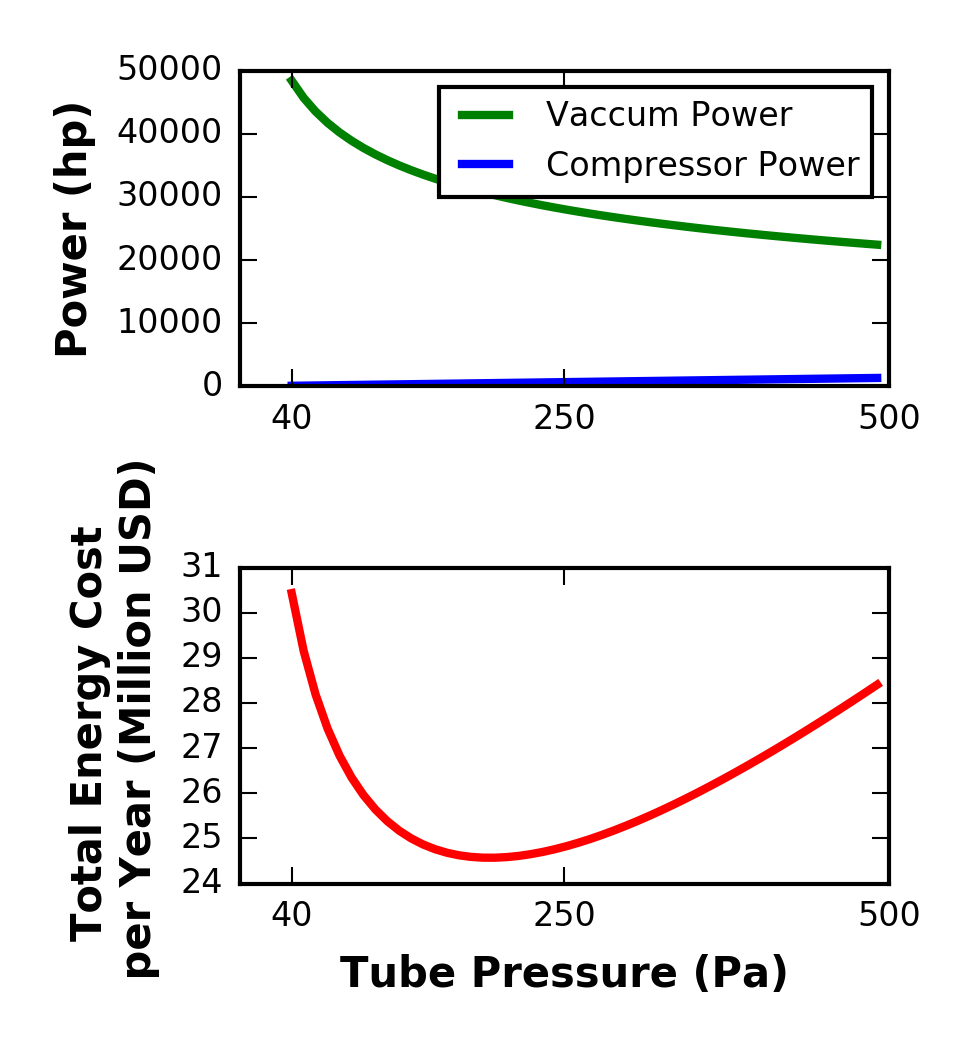
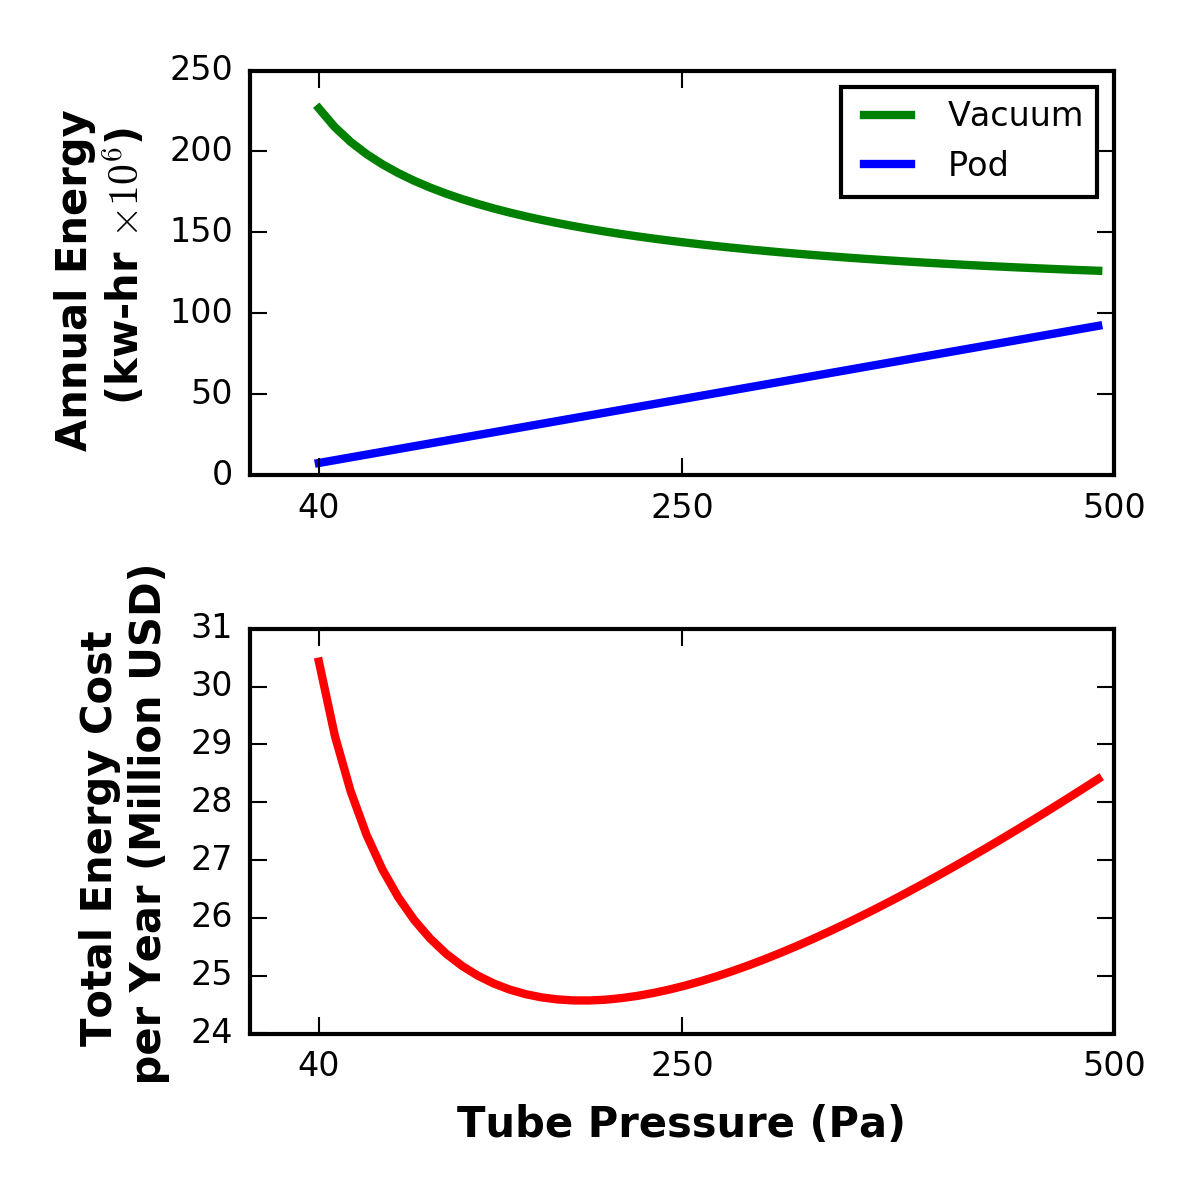
submitted paper

Changed region(s): [[0.0308, 0.0305, 0.9538, 0.4571], [0.0615, 0.4267, 0.9538, 0.9448]]

diff --git a/paper/images/trade_scripts/pressure_zoom_plot.py b/paper/images/trade_scripts/pressure_zoom_plot.py
@@ -10,6 +10,14 @@ power = np.loadtxt('../data_files/pressure_zoom/comp_power.txt', delimiter = '\t
 steady_vac = np.loadtxt('../data_files/pressure_zoom/vac_power.txt', delimiter = '\t')
 total_energy = np.loadtxt('../data_files/pressure_zoom/total_energy.txt', delimiter = '\t')
 
+prop_energy = np.loadtxt('../../../paper/images/data_files/pressure_zoom/prop_energy.txt', delimiter = '\t')
+tube_energy = np.loadtxt('../../../paper/images/data_files/pressure_zoom/tube_energy.txt', delimiter = '\t')
+
+pod_energy = total_energy-tube_energy
+
+comp_scale = 25641305
+power = power*comp_scale
+
 fig = plt.figure(figsize = (3.25,3.5), tight_layout = True)
 ax = plt.axes()
 plt.setp(ax.get_xticklabels(), fontsize=8)
@@ -19,13 +27,35 @@ plt.xlabel('Tube Pressure (Pa)', fontsize = 10, fontweight = 'bold')
 plt.ylabel('Tube Area ($m^2$)', fontsize = 10, fontweight = 'bold')
 ax.set_xticks([40,250,500])
 plt.savefig('../graphs/pressure_trades/pressure_vs_Area_zoom.png', format = 'png', dpi = 300)
-plt.show()
+#plt.show()
 
 fig = plt.figure(figsize = (3.25,3.5), tight_layout = True)
 ax1 = fig.add_subplot(211)
 line1, = ax1.plot(p_tunnel, steady_vac, 'g-', linewidth = 2.0, label = 'Vaccum Power')
 line2, = ax1.plot(p_tunnel, power, 'b-', linewidth = 2.0, label = 'Compressor Power')
 ax1.set_ylabel('Power (hp)', fontsize = 10, fontweight = 'bold')
+plt.legend(handles = [line1, line2], loc = 1, fontsize = 8)
+ax1.set_xticks([40,250,500])
+#ax1.set_yticks([14000, 28000, 36000, 56000])
+ax2 = fig.add_subplot(212)
+ax2.plot(p_tunnel, total_energy/(1.0e6), 'r-', linewidth = 2.0)
+ax2.set_xlabel('Tube Pressure (Pa)', fontsize = 10, fontweight = 'bold')
+ax2.set_ylabel('Total Energy Cost \n per Year (Million USD)', fontsize = 10, fontweight = 'bold')
+ax2.set_xticks([40,250,500])
+#ax2.set_yticks([0,10,20,30])
+plt.setp(ax1.get_xticklabels(), fontsize=8)
+plt.setp(ax1.get_yticklabels(), fontsize=8)
+plt.setp(ax2.get_xticklabels(), fontsize=8)
+plt.setp(ax2.get_yticklabels(), fontsize=8)
+plt.savefig('../graphs/pressure_trades/pressure_vs_power_zoom.png', format = 'png', dpi = 300)
+# plt.show()
+
+fig = plt.figure(figsize = (4.,4.), tight_layout = True)
+ax1 = fig.add_subplot(211)
+line1, = ax1.plot(p_tunnel, tube_energy/.13/1e6, 'g-', linewidth = 2.0, label = 'Vacuum')
+#line2, = ax1.plot(p_tunnel, prop_energy, 'b-', linewidth = 2.0, label = 'Yearly Compressor Energy')
+line2, = ax1.plot(p_tunnel, pod_energy/.13/1e6, 'b-', linewidth = 2.0, label = 'Pod')
+ax1.set_ylabel('Annual Energy \n '+r'(kw-hr $\times 10^6$)', fontsize = 10, fontweight = 'bold')
 plt.legend(handles = [line1, line2], loc = 1, fontsize = 8)
 ax1.set_xticks([40,250,500])
 #ax1.set_yticks([14000, 28000, 36000, 56000])

diff --git a/paper/sections/introduction.tex b/paper/sections/introduction.tex
@@ -41,8 +41,8 @@
     of pressure ahead of the pod. Existing aerospace research for
     electric aircraft propulsion can be leveraged to provide the necessary
     technology for this compressor along with recent technological developments
-    in high-density electrical electronics and power storage. Aerospace modeling
-    techniques also provide better tools for designing propulsions systems
+    in high-density power electronics and power storage. Aerospace modeling
+    techniques also provide better tools for designing propulsion systems
     requiring boundary layer ingestion and management.
 
     Staying at ground-level allows the Hyperloop's electromagnetic propulsion
@@ -62,7 +62,7 @@
     The substantially lower drag enables pulse and glide mission profiles,
     making passive MagLev more viable. This may result in a lighter, more affordable track
     system, avoiding active levitation components spanning the entire tube length.
-    This unique combination of potential levitation and propulsion technologies,
+    This unique combination of potential levitation and propulsion technologies
     differentiate it from previous tube trains and MagLev systems.
     In the same way an airplane is differentiated from an airship or a hydroplane
     is differentiated from a boat, the Hyperloop is a plane that generates lift
@@ -83,7 +83,7 @@
     Hyperloop can be optimized for passenger throughput, door-to-door travel time,
     and energy efficiency for open and level travel corridors spanning highly
     populous cities. The combination of these technologies allows the
-    vehicle to spends more time operating under optimal conditions and avoids
+    vehicle to spend more time operating under optimal conditions and avoids
     releasing carbon emissions into the upper atmosphere.
 
     The design mission is sized for distances between 250-500 nautical miles,

diff --git a/paper/sections/results/pressure_trade.tex b/paper/sections/results/pressure_trade.tex
@@ -47,22 +47,12 @@ at higher pressures, increases in pod length begin to dominate boundary layer
 sizing and the marginal effect on tube area is tempered.
 
 \begin{figure}
-\centering
-\begin{subfigure}{.5\textwidth}
-  \centering
-  \includegraphics{../../images/graphs/pressure_trades/pressure_vs_power.png}
-  \caption{Pressure Sweep, Leakage = 1 $\frac{kg}{s}$}
-  \label{fig:pow_demands_vs_tube_press_big}
-\end{subfigure}%
-\begin{subfigure}{.5\textwidth}
-  \centering
-  \includegraphics{../../images/graphs/pressure_trades/pressure_vs_power_zoom.png}
-  \caption{Pressure Sweep, Leakage = 3 $\frac{kg}{s}$}
-  \label{fig:pow_demands_vs_tube_press_zoom}
-\end{subfigure}
-\caption{Power Demands and Energy Consumption vs. Tube Pressure}
-\label{fig:pow_demands_vs_tube_press}
+    \centering
+    \includegraphics{../../images/graphs/pressure_trades/pressure_vs_power_zoom.png}
+    \caption{Energy Consumption and Cost vs. Tube Pressure}
+    \label{fig:pow_demands_vs_tube_press}
 \end{figure}
+
 \Cref{fig:pow_demands_vs_tube_press} shows how the power and energy consumption
 change with tube pressure. As expected, high tube pressures require lower power
 for a given leakage rate while requiring a higher power output from the onboard
@@ -70,7 +60,7 @@ compressor for a given compressor ratio. Thus total annual energy cost
 increases for very low pressures, due to the vacuum system managing the air
 leakage, and increases for very high pressures,
 due to increased power demand from the compressor.
-The second plot in \cref{fig:pow_demands_vs_tube_press_zoom} shows that this
+The second plot in \cref{fig:pow_demands_vs_tube_press} shows that this
 relationship produces a pressure at which energy cost is minimal. In this case,
 the energy consumption is minimal at about 200 Pa for a leakage of 3 $\frac{kg}{s}$.
 Energy consumption increases

diff --git a/paper/sections/model_overview.tex b/paper/sections/model_overview.tex
@@ -9,13 +9,13 @@ which describes how to interpret the following diagrams for the Pod, Tube, and M
 \centering
 \begin{subfigure}[b]{.4\textwidth}
   \centering
-  \centerline{\includegraphics[width=1.2\textwidth]{../images/tube_and_pod.png}}
+  \centerline{\includegraphics[width=1.2\textwidth,\hspace{-1.2cm}]{../images/tube_and_pod.png}}
   %\caption{Hierarchical tree}
   \label{fig:tree:tubeandpod}
 \end{subfigure}%
 \begin{subfigure}[b]{.6\textwidth}
   \centering
-  \centerline{\includegraphics[width=1.4\textwidth,\vspace{1.2cm}]{../images/xdsm/tube_and_pod.pdf}}
+  \centerline{\includegraphics[width=1.4\textwidth,\hspace{-0.7cm},\vspace{1.2cm}]{../images/xdsm/tube_and_pod.pdf}}
   %\caption{XDSM}
   \label{fig:xdsm:toplevel}
 \end{subfigure}
@@ -33,7 +33,7 @@ which describes how to interpret the following diagrams for the Pod, Tube, and M
 \end{subfigure}%
 \begin{subfigure}[b]{.5\textwidth}
   \centering
-  \centerline{\includegraphics[width=1.4\textwidth,\vspace{0.5cm}]{../images/xdsm/pod.pdf}}
+  \centerline{\includegraphics[width=1.4\textwidth,\vspace{0.3cm}]{../images/xdsm/pod.pdf}}
   %\caption{XDSM}
   \label{fig:xdsm:pod}
 \end{subfigure}
@@ -51,7 +51,7 @@ which describes how to interpret the following diagrams for the Pod, Tube, and M
 \end{subfigure}%
 \begin{subfigure}[b]{.5\textwidth} % align [b]ottoms, 1cm padding on xdsm
   \centering
-  \centerline{\includegraphics[width=1.3\textwidth,\vspace{0.8cm}]{../images/xdsm/tube.pdf}}
+  \centerline{\includegraphics[width=1.3\textwidth,\hspace{0.75cm},\vspace{0.8cm}]{../images/xdsm/tube.pdf}}
   %\caption{XDSM}
   \label{fig:xdsm:tube}
 \end{subfigure}

diff --git a/paper/images/trade_scripts/pressure_zoom_writer.py b/paper/images/trade_scripts/pressure_zoom_writer.py
@@ -121,12 +121,14 @@ if __name__ == '__main__':
 	steady_vac = np.zeros((1,len(p_tunnel)))
 	total_energy = np.zeros((1, len(p_tunnel)))
 	thrust = np.zeros((1, len(p_tunnel)))
+	prop_energy = np.zeros((1, len(p_tunnel)))
+	tube_energy = np.zeros((1, len(p_tunnel)))
 
 	for i in range(len(p_tunnel)):
 
 		prob['des_vars.tube_pressure'] = p_tunnel[i]
-		print(prob['des_vars.W'])
-		quit()
+		#print(prob['des_vars.W'])
+
 		prob['des_vars.W'] = 3
 
 		prob.run()
@@ -138,10 +140,13 @@ if __name__ == '__main__':
 		power[0,i] = -1.0*prob['TubeAndPod.pod.cycle.comp.power']
 		steady_vac[0,i] = -1.0*prob['TubeAndPod.tube.comp.power']
 		total_energy[0,i] = prob['TubeAndPod.cost.total_energy_cost']
+		prop_energy[0,i] = prob['TubeAndPod.cost.prop_energy_cost']
+		tube_energy[0,i] = prob['TubeAndPod.cost.tube_energy_cost']
 
 		print(i)
 
-
+	np.savetxt('../../../paper/images/data_files/pressure_zoom/prop_energy.txt', prop_energy, fmt = '%f', delimiter = '\t', newline = '\r\n')
+	np.savetxt('../../../paper/images/data_files/pressure_zoom/tube_energy.txt', tube_energy, fmt = '%f', delimiter = '\t', newline = '\r\n')
 	np.savetxt('../../../paper/images/data_files/pressure_zoom/p_tunnel.txt', p_tunnel, fmt = '%f', delimiter = '\t', newline = '\r\n')
 	np.savetxt('../../../paper/images/data_files/pressure_zoom/Re.txt', Re, fmt = '%f', delimiter = '\t', newline = '\r\n')
 	np.savetxt('../../../paper/images/data_files/pressure_zoom/A_tube.txt', A_tube, fmt = '%f', delimiter = '\t', newline = '\r\n')

diff --git a/paper/sections/model_overview/pod_level_comp_descriptions.tex b/paper/sections/model_overview/pod_level_comp_descriptions.tex
@@ -2,7 +2,7 @@
      The design of the tube is driven by the configuration of the pod.
      Consequently, the system model is constructed such that the pod design is analyzed first.
      The Pod group contains all subsystems onboard the passenger pod.
-     The Pod module takes in design variables and feeds them into the Drag, Cycle,
+     The module takes in design variables and feeds them into the Drag, Cycle,
      Drivetrain, Geometry, Mass, and Levitation subsystems.
 
   \subsubsection{Drag}
@@ -154,7 +154,7 @@
 	track. A passive system is advantageous because it requires
 	zero power input for levitation to occur at a given speed.
   Magnetic drag is still present, however pod speed is replenished during each
-  boost phase shown in the mission discussion.
+  boost phase as depicted in the mission discussion.
   Track cost accounting is not included in the model, but this configuration
   was chosen to reduce overall track requirements to essentially metal strips
   configured to maximize conductivity and minimize eddy current generation.

diff --git a/paper/heading.tex b/paper/heading.tex
@@ -45,7 +45,7 @@
 \author{
   Kenneth Decker,\thanks{Aerospace Engineer, Georgia Insitute of Technology, Aerospace Systems Design Lab}
   \and Jeffrey Chin,\thanks{Aerospace Engineer, Propulsion Systems Analysis Branch, Mail Stop 5-11, AIAA Member}
-  \and Andi Peng,\thanks{Computer Scientist, Yale University}
+  \and Andi Peng,\thanks{Computer Scientist, Global Affairs, Yale University}
   \and Colin Summers,\thanks{Chemical Engineer, Computer Engineer, University of Washington-Seattle}
   \and Golda Nguyen,\thanks{Mechanical Engineer, Georgia Institute of Technology}
   \and Andrew Oberlander,\thanks{Mechanical Engineer, Brown University}

diff --git a/paper/sections/model_overview/top_level_comp_descriptions.tex b/paper/sections/model_overview/top_level_comp_descriptions.tex
@@ -58,8 +58,8 @@
 
 \subsubsection{Cost}
 	The cost module estimates the cost of energy, materials, pods, and
-	construction capital. The cost of construction is highly subjective and is
-	difficult to get an accurate estimation within less than an order of
+	construction capital. The cost of construction is highly subjective and it
+	is difficult to get an accurate estimation within less than an order of
 	magnitude of uncertainty. However, the cost of materials and energy
 	consumption can be estimated with significantly greater certainty.
 	Thus, in this analysis, the cost estimations of materials and energy are of greater interest.

diff --git a/paper/sections/results/mach_number_trade.tex b/paper/sections/results/mach_number_trade.tex
@@ -23,7 +23,7 @@ Beyond this Mach number, small increases in Mach number result in a large
 increase in tube area, which will have a large impact on capital cost and energy
 consumption during pump down. Conversely, \cref{fig:tube_area_cost_vs_mach}
 indicates that tube area, and therfore material cost,
-grows slowly with Mach number for Mach numbers below .8.  
+grows slowly with Mach number for Mach numbers below 0.8.
 Based on these results, it is estimated that any
 system level optimization of cost with respect to Mach number will likely result in a
 Mach number near 0.8. For this reason, a Mach number of 0.8 will be used in

diff --git a/paper/sections/model_overview/tube_level_comp_descriptions.tex b/paper/sections/model_overview/tube_level_comp_descriptions.tex
@@ -26,7 +26,7 @@
 	a steady-state phase. In theory, if the tube is perfectly air tight, there
 	would be no need for the vacuum to run at all once the tube is pumped
 	down. However, air is likely to leak into the system throughout normal
-	operation, particularly during loading of pods into the tube.
+	operation, particularly during the loading of pods into the tube.
 	Consequently, vacuum pumps will need to be used throughout operation to
 	maintain operating pressure. The effect of leakage rate on energy
 	consumption is critical and will be discussed in more depth later. For the
